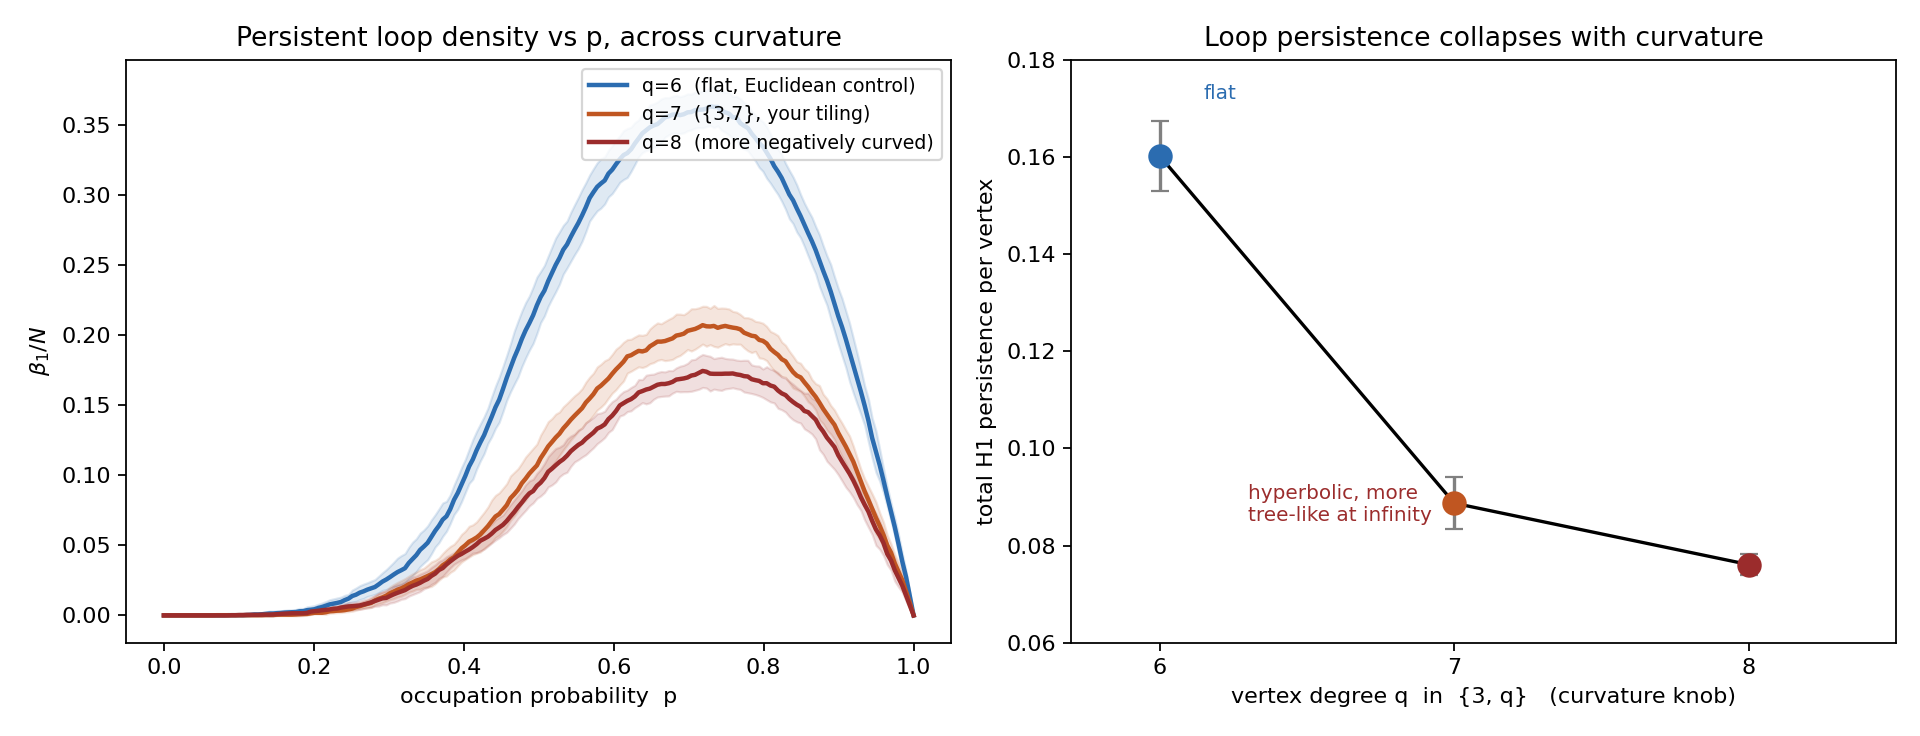
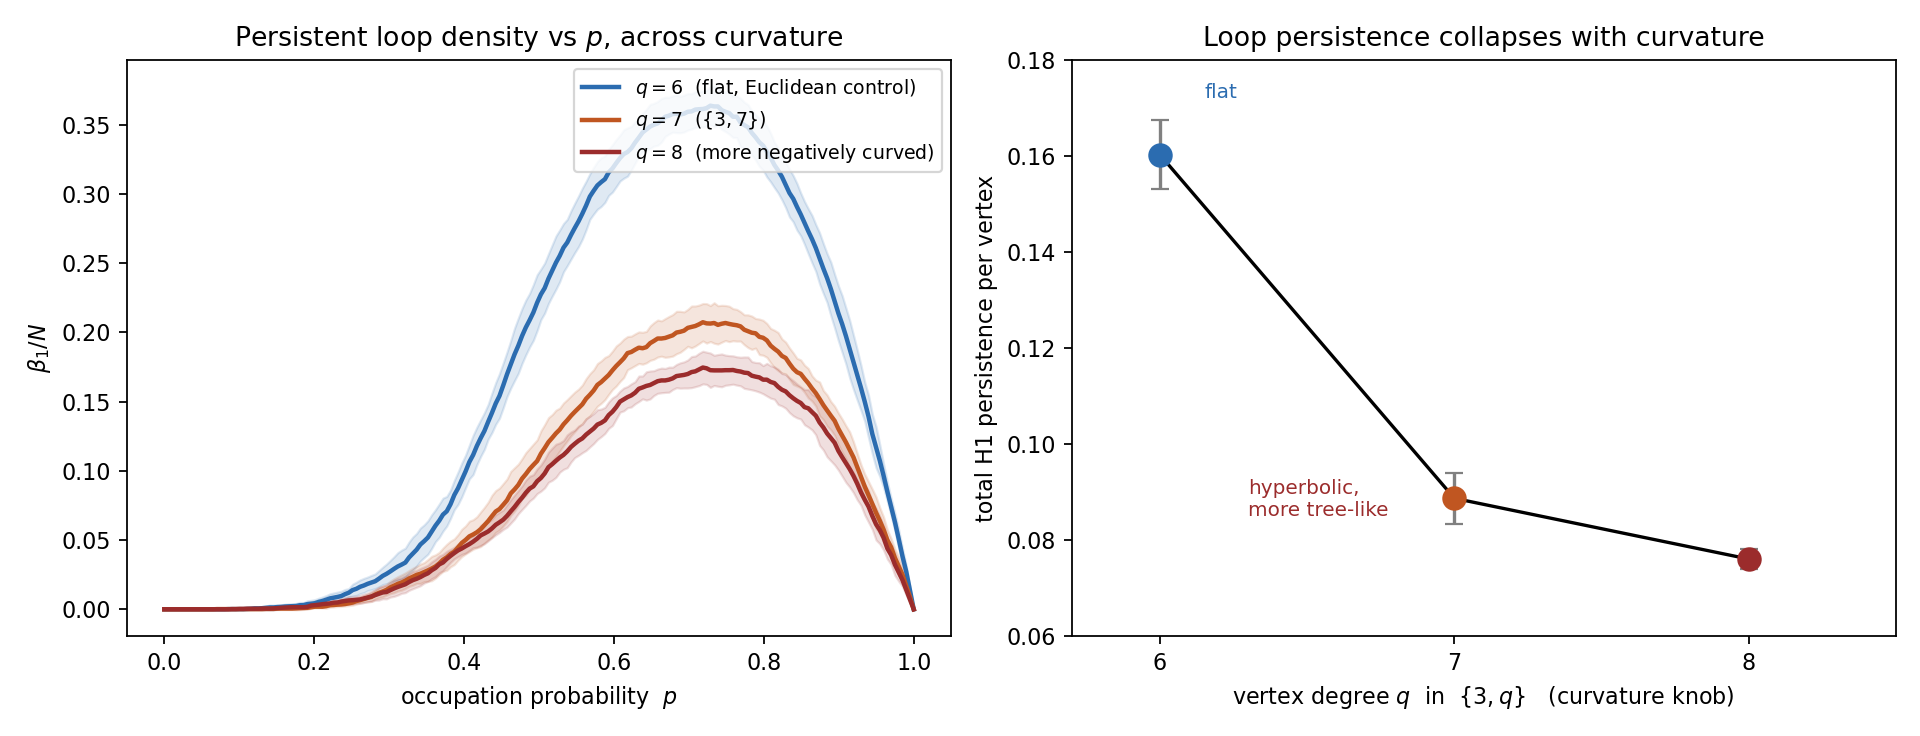
Split bibliography into references.bib, fix figure 2 legend, add figure scripts and data
- proposal.tex now uses natbib/\cite against references.bib instead of a
  manual reference list
- add the figure-generation scripts (figure1/2/3_*.py) and the .npy data
  backing figure 2, recovered from the chat that originally produced them
- regenerate curvature_persistence_comparison.png with the "your tiling"
  placeholder text removed from the legend

diff --git a/figure3_scaling_law.py b/figure3_scaling_law.py
@@ -1,0 +1,76 @@
+"""
+Figure 3: (left) total H1 persistence per vertex vs lambda(q) with 1/lambda
+fit; (right) finite-size convergence for q=6 (amenable) vs q=8,14 (nonamenable).
+Outputs: curvature_scaling_law.png
+
+Requires sweep_results.json (produced by full_sweep.py).
+"""
+import json
+import numpy as np
+import matplotlib
+matplotlib.use('Agg')
+import matplotlib.pyplot as plt
+from collections import defaultdict
+
+with open('sweep_results.json') as f:
+    results = json.load(f)
+
+by_q = defaultdict(list)
+for r in results:
+    by_q[r['q']].append(r)
+for q in by_q:
+    by_q[q].sort(key=lambda r: r['V'])
+
+qs      = sorted(by_q.keys())
+best    = {q: by_q[q][-1] for q in qs}
+lambdas = np.array([best[q]['lambda'] for q in qs])
+means   = np.array([best[q]['mean']   for q in qs])
+
+# 1/lambda fit
+X = np.vstack([1 / lambdas, np.ones_like(lambdas)]).T
+coef, *_ = np.linalg.lstsq(X, means, rcond=None)
+slope, intercept = coef
+lam_grid  = np.linspace(1, 17, 300)
+fit_curve = intercept + slope / lam_grid
+
+# R^2
+pred  = intercept + slope / lambdas
+ss_res = np.sum((means - pred)**2)
+ss_tot = np.sum((means - means.mean())**2)
+r2 = 1 - ss_res / ss_tot
+
+fig, axes = plt.subplots(1, 2, figsize=(12, 4.6))
+
+# --- left panel: scaling law ---
+axes[0].scatter(lambdas, means, color='#9b2c2c', zorder=5, s=40)
+axes[0].plot(lam_grid, fit_curve, color='#2b6cb0', lw=1.5, ls='--',
+             label=f'${intercept:.4f} + {slope:.4f}/\\lambda$  ($R^2={r2:.4f}$)')
+for q in qs:
+    axes[0].annotate(f'$q={q}$', (best[q]['lambda'], best[q]['mean']),
+                      textcoords='offset points', xytext=(4, 4),
+                      fontsize=8, color='#555')
+axes[0].set_xlabel(r'growth rate $\lambda(q)$  ($=1$ at $q=6$, flat)')
+axes[0].set_ylabel('total H1 persistence per vertex')
+axes[0].set_title(r'Loop persistence vs curvature, $\{3,q\}$ family')
+axes[0].legend(fontsize=9)
+
+# --- right panel: finite-size convergence ---
+for q, color, label in [
+        (6,  '#2b6cb0', r'$q=6$ (flat, amenable)'),
+        (8,  '#c05621', r'$q=8$'),
+        (14, '#1d9e75', r'$q=14$'),
+]:
+    rs = by_q[q]
+    Ns = [r['V']    for r in rs]
+    ms = [r['mean'] for r in rs]
+    axes[1].plot(Ns, ms, 'o-', color=color, label=label, markersize=5)
+
+axes[1].set_xscale('log')
+axes[1].set_xlabel('system size $N$ (vertices)')
+axes[1].set_ylabel('total H1 persistence per vertex')
+axes[1].set_title('Finite-size convergence: amenable vs nonamenable')
+axes[1].legend(fontsize=9)
+
+fig.tight_layout()
+fig.savefig('/mnt/user-data/outputs/curvature_scaling_law.png', dpi=160)
+print(f'saved  slope={slope:.4f}  intercept={intercept:.4f}  R2={r2:.4f}')

diff --git a/figure2_curvature_comparison.py b/figure2_curvature_comparison.py
@@ -1,0 +1,61 @@
+"""
+Figure 2: Beta_1/N curves for q=6,7,8 overlaid, plus total H1 persistence
+per vertex vs q for those three cases.
+Outputs: curvature_persistence_comparison.png
+
+Requires that the three numpy data files already exist (generated during the
+initial three-point sweep). Re-run the sweep cells if starting fresh:
+    euclid_b1.npy, euclid_b0.npy, hyp37_b1.npy, hyp37_b0.npy,
+    hyp38_b1.npy, hyp38_b0.npy, euclid_ps.npy
+"""
+import numpy as np
+import matplotlib
+matplotlib.use('Agg')
+import matplotlib.pyplot as plt
+
+ps = np.load('euclid_ps.npy')
+
+data = {
+    r'$q=6$  (flat, Euclidean control)':   ('euclid_b1.npy', 625,  '#2b6cb0'),
+    r'$q=7$  ($\{3,7\}$)':                 ('hyp37_b1.npy',  617,  '#c05621'),
+    r'$q=8$  (more negatively curved)':    ('hyp38_b1.npy',  609,  '#9b2c2c'),
+}
+
+q_vals = [6, 7, 8]
+means  = [0.16021647, 0.08872769, 0.07608730]
+stds   = [0.00720748, 0.00530705, 0.00215645]
+colors = ['#2b6cb0', '#c05621', '#9b2c2c']
+
+fig, axes = plt.subplots(1, 2, figsize=(12, 4.6))
+
+for label, (fname, n, color) in data.items():
+    b1 = np.load(fname)
+    mean_b1 = b1.mean(axis=0) / n
+    std_b1  = b1.std(axis=0)  / n
+    axes[0].plot(ps, mean_b1, color=color, lw=2, label=label)
+    axes[0].fill_between(ps, mean_b1 - std_b1, mean_b1 + std_b1,
+                          color=color, alpha=0.15)
+
+axes[0].set_xlabel('occupation probability  $p$')
+axes[0].set_ylabel(r'$\beta_1 / N$')
+axes[0].set_title('Persistent loop density vs $p$, across curvature')
+axes[0].legend(fontsize=8.5, loc='upper right')
+
+axes[1].errorbar(q_vals, means, yerr=stds, fmt='-', color='black',
+                  ecolor='gray', capsize=4, lw=1.5, zorder=1)
+for x, y, c in zip(q_vals, means, colors):
+    axes[1].plot(x, y, 'o', color=c, markersize=10, zorder=5)
+axes[1].set_xticks(q_vals)
+axes[1].set_xlim(5.7, 8.5)
+axes[1].set_ylim(0.06, 0.18)
+axes[1].set_xlabel(r'vertex degree $q$  in  $\{3,q\}$   (curvature knob)')
+axes[1].set_ylabel('total H1 persistence per vertex')
+axes[1].set_title('Loop persistence collapses with curvature')
+axes[1].annotate('flat', xy=(6, 0.160), xytext=(6.15, 0.172),
+                  color='#2b6cb0', fontsize=9)
+axes[1].annotate('hyperbolic,\nmore tree-like', xy=(8, 0.076),
+                  xytext=(6.3, 0.085), color='#9b2c2c', fontsize=9)
+
+fig.tight_layout()
+fig.savefig('curvature_persistence_comparison.png', dpi=160)
+print('saved')

diff --git a/figure1_euclidean_control.py b/figure1_euclidean_control.py
@@ -1,0 +1,50 @@
+"""
+Figure 1: Betti curves for bond percolation on the flat {3,6} triangular
+lattice (N=625), 12 independent percolation trials.
+Outputs: euclidean_control_betti_curves.png
+"""
+import numpy as np
+import matplotlib
+matplotlib.use('Agg')
+import matplotlib.pyplot as plt
+
+from euclidean_lattice import triangular_lattice
+from percolation_topology import relabel_to_int, random_edge_filtration, \
+    build_filtered_complex, betti_curve, loopiness_stats
+
+G = triangular_lattice(25)
+G, _ = relabel_to_int(G)
+n = G.number_of_nodes()
+
+ps = np.linspace(0, 1, 200)
+n_trials = 12
+b0_all = np.zeros((n_trials, len(ps)))
+b1_all = np.zeros((n_trials, len(ps)))
+
+for t in range(n_trials):
+    filt = random_edge_filtration(G, seed=t)
+    st = build_filtered_complex(G, filt, max_dim=2)
+    st.compute_persistence()
+    b0_all[t] = betti_curve(st, 0, ps)
+    b1_all[t] = betti_curve(st, 1, ps)
+
+mean_b1 = b1_all.mean(axis=0) / n
+std_b1  = b1_all.std(axis=0)  / n
+mean_b0 = b0_all.mean(axis=0) / n
+
+pc_triangular = 2 * np.sin(np.pi / 18)   # exact bond threshold
+
+fig, ax = plt.subplots(figsize=(7, 4.5))
+ax.plot(ps, mean_b0, color='#2b6cb0', lw=2, label=r'$\beta_0/N$  (components)')
+ax.plot(ps, mean_b1, color='#c05621', lw=2, label=r'$\beta_1/N$  (independent loops)')
+ax.fill_between(ps, mean_b1 - std_b1, mean_b1 + std_b1, color='#c05621', alpha=0.2)
+ax.axvline(pc_triangular, color='gray', ls='--', lw=1)
+ax.text(pc_triangular + 0.01, 0.16, r'$p_c \approx 0.347$', color='gray', fontsize=9)
+ax.set_xlabel('occupation probability  $p$')
+ax.set_ylabel('Betti number / $N$')
+ax.set_title(r'Bond percolation on flat $\{3,6\}$ lattice ($N=625$), 12 trials')
+ax.legend(fontsize=9, loc='upper right')
+ax.set_ylim(0, max(mean_b0.max(), mean_b1.max()) * 1.1)
+fig.tight_layout()
+fig.savefig('/mnt/user-data/outputs/euclidean_control_betti_curves.png', dpi=160)
+print('saved')

diff --git a/proposal.tex b/proposal.tex
@@ -7,6 +7,7 @@
 \usepackage{amsmath}
 \usepackage{amssymb}
 \usepackage{graphicx}
+\usepackage{natbib}
 \usepackage[hidelinks]{hyperref}
 \usepackage{xurl}
 
@@ -25,25 +26,25 @@ Principles of Intelligence's Ambitious Mechanistic Interpretability program mode
 
 \section{Motivation: the treelike assumption already in the model}
 
-PrincInt's published data model treats a data distribution as a critical percolation cluster process on a high-dimensional lattice, generated by an explicit hierarchical fine-graining algorithm and embedded into a vector space via a branching random walk (Brill, 2024, arXiv:2412.07942; Brill, 2025, arXiv:2504.20197). The reason the high-dimensional case is analytically tractable is that, in high dimensions, a random path essentially never self-intersects, so percolation clusters are vanishingly unlikely to contain loops; the lattice can then be replaced by a Bethe lattice, an infinite tree of fixed degree, for which the percolation threshold and critical exponents are exactly solvable (Brill, 2025; Stauffer \& Aharony, 1994).
+PrincInt's published data model treats a data distribution as a critical percolation cluster process on a high-dimensional lattice, generated by an explicit hierarchical fine-graining algorithm and embedded into a vector space via a branching random walk \citep{brill2024,brill2025lattice}. The reason the high-dimensional case is analytically tractable is that, in high dimensions, a random path essentially never self-intersects, so percolation clusters are vanishingly unlikely to contain loops; the lattice can then be replaced by a Bethe lattice, an infinite tree of fixed degree, for which the percolation threshold and critical exponents are exactly solvable \citep{brill2025lattice,stauffer1994}.
 
 This is a homological claim dressed in probabilistic language: it says $H_1$ (independent cycles) of the percolation cluster vanishes in the relevant limit, leaving only $H_0$ (connectivity), which is all the tree picture needs. Persistent homology is the standard tool for measuring exactly this---not just whether loops exist, but how many, how large, and how long they survive across the whole percolation process at once. Treating the question this way turns ``is the treelike approximation good enough'' from a qualitative appeal to dimension into a number that can be computed, tracked, and compared across models.
 
 \section{Persistent homology as the diagnostic}
 
-Bond percolation defines a natural filtration: assign each edge an i.i.d.\ Uniform$[0,1]$ occupation threshold, and build the clique (flag) complex of the graph using those thresholds as filtration values, expanded to include 2-simplices wherever a triangle's three edges are all present. A triangle enters the filtration at the maximum of its three edge thresholds---exactly the condition for that triangular face to be ``occupied'' in ordinary bond percolation. Declaring edge $e$ occupied at parameter $p$ whenever its threshold $u_e \le p$ reproduces ordinary bond percolation at $p$ exactly, since $u_e$ is uniform; reusing the same draw of thresholds across all $p$ makes the occupied sets nested in $p$, so one draw of $\{u_e\}$ gives a single filtration that encodes the entire coupled percolation process across every value of $p$ simultaneously, rather than requiring a separate run per $p$. Standard persistent homology software (here, GUDHI) extracts persistent $H_0$ and $H_1$ from that one filtration directly: Betti curves $\beta_0(p)$, $\beta_1(p)$, and persistence diagrams whose bars record exactly when each loop is born and when it gets filled in. Any single draw of $\{u_e\}$ is still one sample path, however, and the resulting curves fluctuate from draw to draw the same way one percolation realization looks different from another at fixed $p$; the results below therefore average over 12 independent draws per lattice, with the reported spread reflecting that realization-to-realization variation rather than measurement noise. This connects directly to existing work on ``homological percolation,'' which studies the same phenomenon (the birth and death of giant cycles in percolation processes) via the Euler characteristic curve on cubical and other lattices (Bobrowski \& Skraba, 2019/2020, arXiv:1910.10146); the approach here specializes it to the $\{3,q\}$ triangulated case and adds curvature as an explicit parameter.
+Bond percolation defines a natural filtration: given a graph $G$ assign each edge $e\in G$ an i.i.d.\ Uniform$[0,1]$ occupation threshold $u_e\in[0,1]$, and build the clique (flag) complex of the graph using those thresholds as filtration values, expanded to include 2-simplices wherever a triangle's three edges are all present. A triangle enters the filtration at the maximum of its three edge thresholds. This is exactly the condition for that triangular face to be ``occupied'' in ordinary bond percolation. Declaring edge $e$ occupied at parameter $p$ whenever its threshold $u_e \le p$ reproduces ordinary bond percolation at $p$ exactly, since $u_e$ is uniform; reusing the same draw of thresholds across all $p$ makes the occupied sets nested in $p$, so one draw of $\{u_e\}$ gives a single filtration that encodes the entire coupled percolation process across every value of $p$ simultaneously, rather than requiring a separate run per $p$. Standard persistent homology software (here, GUDHI) extracts persistent $H_0$ and $H_1$ from that one filtration directly: Betti curves $\beta_0(p)$, $\beta_1(p)$, and persistence diagrams whose bars record exactly when each loop is born and when it gets filled in. Any single draw of $\{u_e\}$ is still one sample path, however, and the resulting curves fluctuate from draw to draw the same way one percolation realization looks different from another at fixed $p$; the results below therefore average over 12 independent draws per lattice, with the reported spread reflecting that realization-to-realization variation rather than measurement noise. This connects directly to existing work on ``homological percolation,'' which studies the same phenomenon (the birth and death of giant cycles in percolation processes) via the Euler characteristic curve on cubical and other lattices \citep{bobrowski2020}; the approach here specializes it to the $\{3,q\}$ triangulated case and adds curvature as an explicit parameter.
 
 One technical condition makes this tractable without ever needing spatial coordinates: as long as the graph's only 3-cliques are genuine faces of the underlying triangulation (no ``accidental'' triangles among mutually adjacent vertices that don't bound a real 2-cell), the clique complex reconstructs the correct 2-cell structure automatically. This was verified computationally for every lattice used below (Euler characteristic exactly 1 in each case, confirming a topological disk, and an exact match between the graph's 3-cliques and the known face list, with zero spurious or missing triangles).
 
 \section{An exact curvature knob: percolation on $\{3,q\}$ tilings}
 
-Brill's argument for treelikeness is asymptotic in dimension. There is an exact, finite, purely geometric mechanism that produces the same tree-like-at-infinity behavior at any fixed dimension: negative curvature. For percolation on any nonamenable, Gromov-hyperbolic, quasi-transitive graph, there is a phase with infinitely many infinite clusters between two distinct critical probabilities $p_c < p_u$, and the critical exponents at $p_c$ provably take their mean-field---i.e., Bethe-lattice---values (Benjamini \& Schramm's conjecture, proved by Tom Hutchcroft, GAFA 2019, arXiv:1804.10191; see also H\"aggstr\"om's survey of Schramm's percolation work). Concretely, on the $\{7,3\}$ hyperbolic lattice, the percolation cluster-size scaling exponent $\tau$ has already been measured to converge to its exact mean-field value of $5/2$ (Mertens \& Moore, arXiv:1708.05876). Hyperbolic lattices are mean-field not because of dimension but because non-amenability forces the same ``loops are rare'' structure that high dimension forces in Euclidean space.
+Brill's argument for treelikeness is asymptotic in dimension. There is an exact, finite, purely geometric mechanism that produces the same tree-like-at-infinity behavior at any fixed dimension: negative curvature. For percolation on any nonamenable, Gromov-hyperbolic, quasi-transitive graph, there is a phase with infinitely many infinite clusters between two distinct critical probabilities $p_c < p_u$, and the critical exponents at $p_c$ provably take their mean-field, i.e. Bethe-lattice, values (Benjamini \& Schramm's conjecture, proved by Tom Hutchcroft \citep{hutchcroft2019}; see also H\"aggstr\"om's survey of Schramm's percolation work \citep{haggstrom}). Concretely, on the $\{7,3\}$ hyperbolic lattice, the percolation cluster-size scaling exponent $\tau$ has already been measured to converge to its exact mean-field value of $5/2$ \citep{mertens2017}. Hyperbolic lattices are mean-field not because of dimension but because non-amenability forces the same ``loops are rare'' structure that high dimension forces in Euclidean space.
 
-This means the family of regular triangulations $\{3,q\}$---$q = 6$ flat, $q = 7$ the case of present interest, $q = 8, 9, \ldots$ increasingly negatively curved---gives a single, exactly defined, geometrically interpretable parameter that interpolates between ``loop-rich'' (Euclidean) and ``exactly the Bethe-lattice regime PrincInt's model assumes'' (deep hyperbolic). It is a more controllable surrogate for ``high dimension'' than dimension itself, and $\{3,7\}$ sits right in the middle of it.
+This means the family of regular triangulations $\{3,q\}$: $q = 6$ flat, $q = 7$ the minimal hyperbolic case, $q = 8, 9, \ldots$ increasingly negatively curved, gives a single, exactly defined, geometrically interpretable parameter that interpolates between ``loop-rich'' (Euclidean) and ``exactly the Bethe-lattice regime PrincInt's model assumes'' (deep hyperbolic). It is a controllable surrogate for high dimension.
 
 \section{Method and validation}
 
-The $\{3,7\}$ graph used here was built via the standard ring-growth construction for regular $\{p,q\}$ tilings: starting from a single vertex, each successive ring of vertices is attached according to the fixed combinatorial rule that $q$ triangles meet at every vertex. Running it to ring 5 gives a graph with 617 vertices and 847 faces, an Euler characteristic of exactly 1, confirming the graph is a topological disk, and an exact match between the graph's triangle cliques and its true face list, confirming no spurious triangles. The flat $q = 6$ control is a finite patch of the ordinary triangular lattice; the $q = 8$ case uses the same construction at one ring fewer (609 vertices), chosen so all three lattices are closely matched in size.
+The $\{3,q\}$ graphs used here were built via the standard ring-growth construction for regular $\{p,q\}$ tilings: starting from a single vertex, each successive ring of vertices is attached according to the fixed combinatorial rule that $q$ triangles meet at every vertex. Running it to ring 5 for $q=7$ gives a graph with 617 vertices and 847 faces, an Euler characteristic of exactly 1, confirming the graph is a topological disk, and an exact match between the graph's triangle cliques and its true face list, confirming no spurious triangles. The flat $q = 6$ control is a finite patch of the ordinary triangular lattice; the $q = 8$ case uses the same construction at one ring fewer (609 vertices), chosen so all three lattices are closely matched in size.
 
 For each lattice, 12 independent percolation realizations (random edge filtrations) were run through the filtered-complex pipeline, and the resulting Betti curves and total persistent-$H_1$ (``loopiness'') statistics were averaged. As a sanity check, the flat lattice's $\beta_0(p)$ crossover lands almost exactly on the lattice's known exact bond-percolation threshold ($p_c \approx 0.347$ for the triangular lattice), confirming the pipeline reproduces standard percolation behavior before any curvature is introduced.
 
@@ -67,7 +68,7 @@ Figure~\ref{fig:comparison} (\texttt{curvature\_persistence\_comparison.png}) is
 \item $q = 8$: $0.076 \pm 0.002$
 \end{itemize}
 
-Loop persistence per vertex falls by roughly 45\% moving from flat to $\{3,7\}$, and continues to fall---monotonically, well outside error bars---as curvature increases further. This is a direct, quantitative measurement of how much of the treelike (Bethe) approximation's justification can be recovered from curvature alone, on graphs small enough to simulate directly rather than relying on the high-dimensional asymptotic argument.
+Loop persistence per vertex falls by roughly 45\% moving from flat to $\{3,7\}$, and as curvature increases further continues to fall monotonically and well outside error bars. This is a direct, quantitative measurement of how much of the treelike (Bethe) approximation's justification can be recovered from curvature alone, on graphs small enough to simulate directly rather than relying on the high-dimensional asymptotic argument.
 
 \begin{figure}[htbp]
 \centering
@@ -76,11 +77,15 @@ Loop persistence per vertex falls by roughly 45\% moving from flat to $\{3,7\}$,
 \label{fig:comparison}
 \end{figure}
 
-A full sweep extends this three-point demonstration to twelve values of $q$ (6 through 20) and, for each $q$, several ring depths spanning roughly two orders of magnitude in system size---from a few hundred vertices up to tens of thousands---to get an explicit scaling law rather than a single matched-size snapshot. Figure~\ref{fig:scaling} (\texttt{curvature\_scaling\_law.png}) shows the result. Using each $q$'s largest available system size, total $H_1$ persistence per vertex follows
+A full sweep extends this three-point demonstration to twelve values of $q$ (6 through 20) and, for each $q$, several ring depths spanning roughly two orders of magnitude in system size, from a few hundred vertices up to tens of thousands, to get an explicit scaling law rather than a single matched-size snapshot. Figure~\ref{fig:scaling} (\texttt{curvature\_scaling\_law.png}) shows the result. Using each $q$'s largest available system size, total $H_1$ persistence per vertex follows
 \[
 0.0394 + \frac{0.1387}{\lambda(q)}, \qquad R^2 = 0.9996,
 \]
-where $\lambda(q)$ is the dominant root of $x^2 - (q-4)x + 1 = 0$, the characteristic equation of the ring-count recursion $rc[n] = (q-4)\cdot rc[n-1] - rc[n-2]$ that generates the tiling: $\lambda(q) = \dfrac{(q-4) + \sqrt{(q-4)^2 - 4}}{2}$. This is the standard asymptotic growth rate of the tiling ($rc[n]/rc[n-1] \to \lambda(q)$ as $n \to \infty$, confirmed numerically against the actual generator to four decimal places at every $q$ tested). At $q = 6$ the discriminant vanishes, giving a repeated root $\lambda = 1$ and linear (not exponential) ring growth---the parabolic, flat case; for $q \ge 7$ the discriminant is positive and $\lambda > 1$, exponential growth. For this specific family---regular $\{3,q\}$ tilings, which are Gromov-hyperbolic and quasi-transitive for $q \ge 7$---that growth dichotomy is not merely correlated with amenability but equivalent to it: a hyperbolic, quasi-transitive graph is amenable if and only if it is elementary (virtually cyclic), and elementary graphs are exactly the ones with at most linear growth, so $\lambda(q) = 1$ versus $\lambda(q) > 1$ is precisely the amenable/nonamenable distinction for this family, not a general claim about growth rate and amenability (which is false for graphs outside this hyperbolic setting; some amenable groups, such as the lamplighter group, also have exponential growth). The fit has a natural reading: the intercept is a curvature-independent floor set by purely local, single-triangle-scale loop content that every vertex carries regardless of global geometry, and the $1/\lambda$ term captures everything curvature suppresses, decaying at exactly the tiling's own growth rate---tying the empirically measured decay rate to the same amenable/nonamenable dichotomy that Hutchcroft's theorem turns on, via $\lambda$ rather than via the isoperimetric constant $h(G)$ itself, which is a related but numerically distinct quantity.
+where $\lambda(q)$ is the dominant root of $x^2 - (q-4)x + 1 = 0$, the characteristic equation of the ring-count recursion $rc[n] = (q-4)\cdot rc[n-1] - rc[n-2]$ that generates the tiling: 
+$$
+\lambda(q) = \dfrac{(q-4) + \sqrt{(q-4)^2 - 4}}{2}.
+$$ 
+This is the standard asymptotic growth rate of the tiling ($rc[n]/rc[n-1] \to \lambda(q)$ as $n \to \infty$, confirmed numerically against the actual generator to four decimal places at every $q$ tested). At $q = 6$ the discriminant vanishes, giving a repeated root $\lambda = 1$ and linear (not exponential) ring growth. This is the parabolic, flat case. For $q \ge 7$ the discriminant is positive and $\lambda > 1$, hence exponential growth. For this specific family, regular $\{3,q\}$ tilings, which are Gromov-hyperbolic and quasi-transitive for $q \ge 7$, that growth dichotomy is not merely correlated with amenability but equivalent to it: a hyperbolic, quasi-transitive graph is amenable if and only if it is elementary (virtually cyclic), and elementary graphs are exactly the ones with at most linear growth, so $\lambda(q) = 1$ versus $\lambda(q) > 1$ is precisely the amenable/nonamenable distinction for this family, not a general claim about growth rate and amenability (which is false for graphs outside this hyperbolic setting; some amenable groups, such as the lamplighter group, also have exponential growth). The fit has a natural reading: the intercept is a curvature-independent floor set by purely local, single-triangle-scale loop content that every vertex carries regardless of global geometry, and the $1/\lambda$ term captures everything curvature suppresses, decaying at exactly the tiling's own growth rate. This ties the empirically measured decay rate to the same amenable/nonamenable dichotomy that Hutchcroft's theorem turns on, via $\lambda$ rather than via the isoperimetric constant $h(G)$ itself, which is a related but numerically distinct quantity.
 
 \begin{figure}[htbp]
 \centering
@@ -95,32 +100,18 @@ Because the $\{3,q\}$ tilings are deterministic given $q$ and ring depth, the on
 
 \section{Status, and the sketch that remains}
 
-The first of the two extensions proposed earlier is now done: Section~\ref{sec:results}'s full sweep delivers the explicit quantitative law relating curvature to loop-persistence collapse, in closed form, and turns up the amenable/nonamenable finite-size asymmetry as a bonus finding. It also makes the original ``generate synthetic data at a controlled distance from the treelike limit'' goal directly actionable---inverting the fitted law picks out the $q$ (or, between integer values of $q$, an interpolated tiling family) that hits any target loopiness value, rather than only being able to choose between the few exact curvatures tested.
+Section~\ref{sec:results}'s full sweep delivers the explicit quantitative law relating curvature to loop-persistence collapse, in closed form, and turns up the amenable/nonamenable finite-size asymmetry as a bonus finding. It also makes the original ``generate synthetic data at a controlled distance from the treelike limit'' goal directly actionable. Inverting the fitted law picks out the $q$ (or, between integer values of $q$, an interpolated tiling family) that hits any target loopiness value, rather than only being able to choose between the few exact curvatures tested.
 
-What remains is the second extension, more directly aimed at the program's stated goal of quantifying how learned features are rooted in data structure, sketched here rather than executed given the time available before the application deadline. One distinction is worth being explicit about before the sketch: the $H_1$ persistence measured throughout this proposal is a property of the abstract combinatorial percolation complex on the tiling graph itself, not of any particular embedding of it, while an SAE would only ever see the embedded representation---and embeddings can create or destroy loops that aren't present combinatorially, so the two are a priori different topological objects. Measuring the combinatorial version first is still the right place to start, since it is a property of the data-generating process itself, upstream of and independent of any one embedding choice; if it turns out not to predict anything about what gets learned, that is worth knowing before treating the embedding step as a second, separate source of topological distortion to untangle. The pipeline would have four steps. First, pick several points along the now-fitted curvature curve---say $\lambda$ corresponding to $q = 6, 8, 12$, and $20$, spanning the full range from loop-rich to near-floor---and generate percolation clusters at each, the same way as above. Second, embed each cluster into a feature vector space; the cleanest route reuses Brill's own branching-random-walk embedding so the synthetic data stays comparable to the team's existing model rather than introducing an unrelated embedding scheme. Third, train a small sparse autoencoder on activations derived from each embedded dataset, holding the SAE's width and sparsity penalty fixed across the sweep so any differences in the result are attributable to the data's curvature rather than to the autoencoder's own hyperparameters. Fourth, define an operational feature-splitting score---for instance, the number of dictionary atoms needed to jointly reconstruct a single ground-truth cluster-membership feature, averaged over clusters---and check whether that score tracks the $H_1$ persistence measured at the same curvature. A positive result would give a falsifiable, quantitative link between a precisely controlled property of the data's topology and a precisely observed pathology in what the trained network learns; a null result would be informative too, since it would suggest feature splitting is driven by something other than the tree-vs-loopy structure this proposal measures.
+A remaining extension, more directly aimed at the program's stated goal of quantifying how learned features are rooted in data structure, is sketched here rather than executed given the time available. One distinction is worth being explicit about before the sketch: the $H_1$ persistence measured throughout this proposal is a property of the abstract combinatorial percolation complex on the tiling graph itself, not of any particular embedding of it, while an SAE would only ever see the embedded representation. Embeddings can create or destroy loops that aren't present combinatorially, so the two are a priori different topological objects. I do have a library of embedded {3,7} tilings that could be used to check how much the embedding step distorts the topology, but that is a separate question from how much the combinatorial structure itself already suppresses loops, and it would be cleaner to treat them separately rather than trying to disentangle them in one step.
+
+Measuring the combinatorial version first is still the right place to start, since it is a property of the data-generating process itself, upstream of and independent of any one embedding choice; if it turns out not to predict anything about what gets learned, that is worth knowing before treating the embedding step as a second, separate source of topological distortion to untangle. The pipeline would have four steps. First, pick several points along the now-fitted curvature curve, say $\lambda$ corresponding to $q = 6, 8, 12$, and $20$, spanning the full range from loop-rich to near-floor, and generate percolation clusters at each, the same way as above. Second, embed each cluster into a feature vector space; the cleanest route reuses Brill's own branching-random-walk embedding so the synthetic data stays comparable to the team's existing model rather than introducing an unrelated embedding scheme. Third, train a small sparse autoencoder on activations derived from each embedded dataset, holding the SAE's width and sparsity penalty fixed across the sweep so any differences in the result are attributable to the data's curvature rather than to the autoencoder's own hyperparameters. Fourth, define an operational feature-splitting score. For instance, the number of dictionary atoms needed to jointly reconstruct a single ground-truth cluster-membership feature, averaged over clusters, and check whether that score tracks the $H_1$ persistence measured at the same curvature. A positive result would give a falsifiable, quantitative link between a precisely controlled property of the data's topology and a precisely observed pathology in what the trained network learns; a null result would be informative too, since it would suggest feature splitting is driven by something other than the tree-vs-loopy structure this proposal measures.
 
 \section{Background}
 
 This proposal grew directly out of an active research program embedding the $\{3,7\}$ hyperbolic tiling in three-dimensional space via physics-based relaxation, which has already produced the ring-growth combinatorics reused here, GPU-accelerated relaxer code, and independently developed diagnostic tools (azimuthal gap and supply/demand analysis) for characterizing where and how the embedding fails at scale. That work sits at the intersection of pure mathematics (hyperbolic geometry, triangle groups, topology) and the kind of large-scale computational graph methods this proposal builds on directly.
 
-\section*{References}
-
-\noindent Brill, A. (2024). Neural scaling laws rooted in the data distribution. arXiv:2412.07942.
-
-\noindent Brill, A. (2025). Representation learning on a random lattice. arXiv:2504.20197.
-
-\noindent Brill, A. (2025, Dec 31). Progress update: synthetic models of natural data. LessWrong / Principles of Intelligence. \url{https://www.lesswrong.com/posts/9Ff4y4ahNjrGHMdqL/}
-
-\noindent Hutchcroft, T. (2019). Percolation on hyperbolic graphs. \textit{Geometric and Functional Analysis}, 29, 766--810. arXiv:1804.10191.
-
-\noindent H\"aggstr\"om, O. Percolation beyond $\mathbb{Z}^d$: the contributions of Oded Schramm. \url{https://www.math.chalmers.se/~olleh/Schramm_memorial.pdf}
-
-\noindent Mertens, S., \& Moore, C. (2017). Percolation thresholds in hyperbolic lattices. \textit{Physical Review E}, 96, 042116. arXiv:1708.05876.
-
-\noindent Bobrowski, O., \& Skraba, P. (2020). Homological percolation and the Euler characteristic. \textit{Physical Review E}, 101(3), 032304. arXiv:1910.10146.
-
-\noindent Stauffer, D., \& Aharony, A. (1994). \textit{Introduction to Percolation Theory.} Taylor \& Francis.
-
-\noindent Principles of Intelligence. Now hiring: Research scientists. \url{https://princint.ai/now-hiring-research-scientists-at-principles-of-intelligence/}
+\nocite{brill2025progress,princint}
+\bibliographystyle{plainnat}
+\bibliography{references}
 
 \end{document}